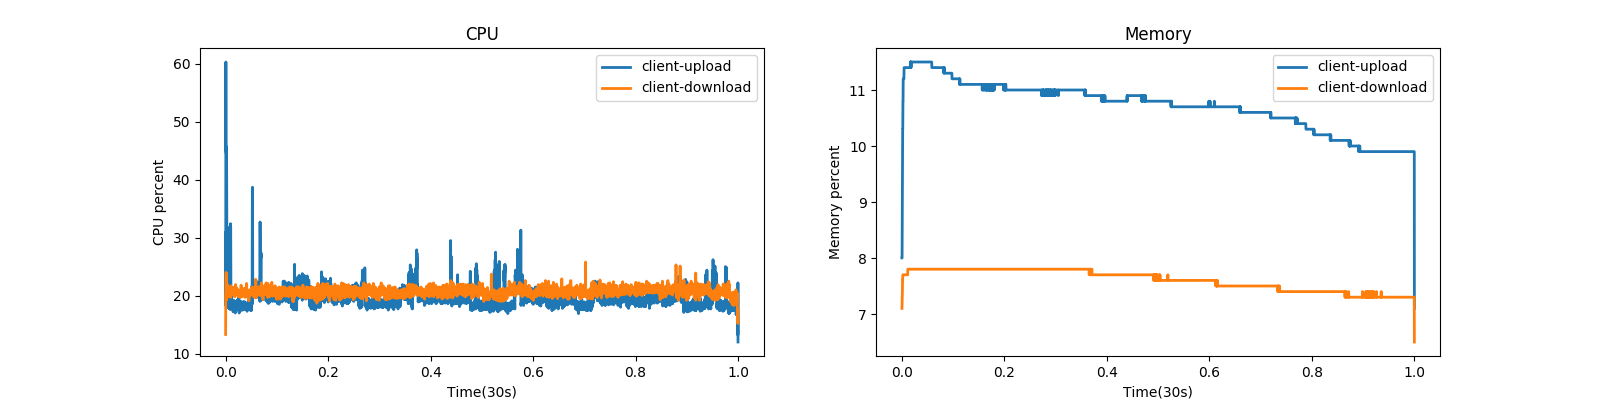
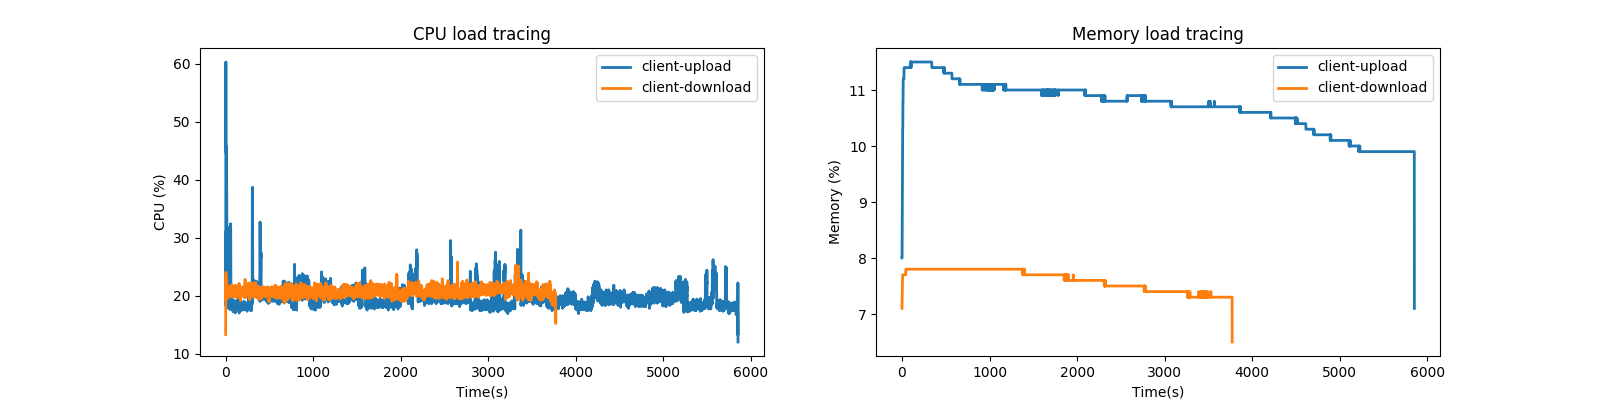
修改横纵坐标的表示，将时间差别也体现出来

diff --git a/oscillo/worker.py b/oscillo/worker.py
@@ -104,27 +104,27 @@ def print_image(summary, output="metrix.png"):
     plt.subplot(121)
     for k in summary:
         result = summary[k]
-        x = np.linspace(0, 1, len(result['cpu']))
+        x = np.linspace(0, int(result['elapsed']), len(result['cpu']))
         y = np.array(result['cpu'])
 
         plt.plot(x, y, label=k, linewidth=2)
 
-    plt.xlabel("Time(30s)")
-    plt.ylabel("CPU percent")
+    plt.xlabel("Time(s)")
+    plt.ylabel("CPU (%)")
     plt.legend(labels=[k for k in summary], loc="best")
-    plt.title("CPU")
+    plt.title("CPU load tracing")
 
     plt.subplot(122)
     for k in summary:
         result = summary[k]
-        x = np.linspace(0, 1, len(result['memory']))
+        x = np.linspace(0, int(result['elapsed']), len(result['memory']))
         y = np.array(result['memory'])
 
         plt.plot(x, y, label=k, linewidth=2)
-    plt.xlabel("Time(30s)")
-    plt.ylabel("Memory percent")
+    plt.xlabel("Time(s)")
+    plt.ylabel("Memory (%)")
     plt.legend(labels=[k for k in summary], loc="best")
-    plt.title("Memory")
+    plt.title("Memory load tracing")
 
     if not output.endswith('.png'):
         output += '.png'
